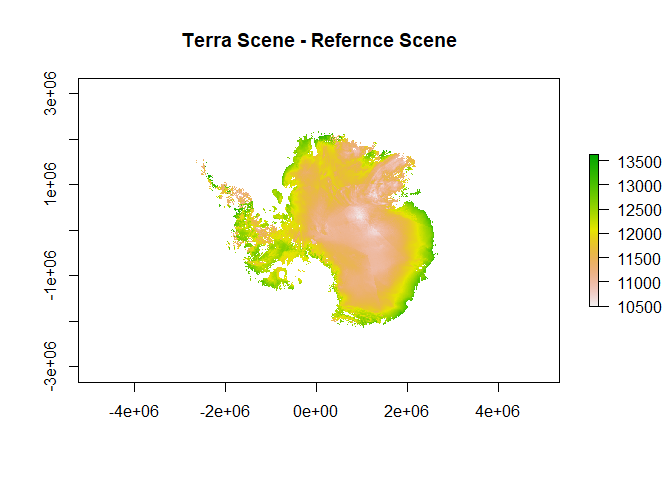
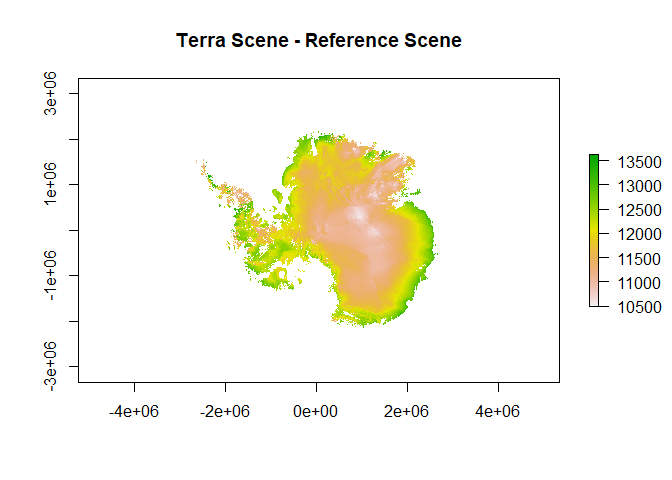
modify

Changed region(s): [[0.25, 0.0625, 0.6875, 0.125]]

diff --git a/README.md b/README.md
@@ -64,7 +64,7 @@ plot(aqua,main="Aqua Scene Before Filling - Target Scene")
 <img src="man/figures/README-example-1.png" width="100%" />
 
 ``` r
-plot(terra, main="Terra Scene - Refernce Scene")
+plot(terra, main="Terra Scene - Reference Scene")
 ```
 
 <img src="man/figures/README-example-2.png" width="100%" />
